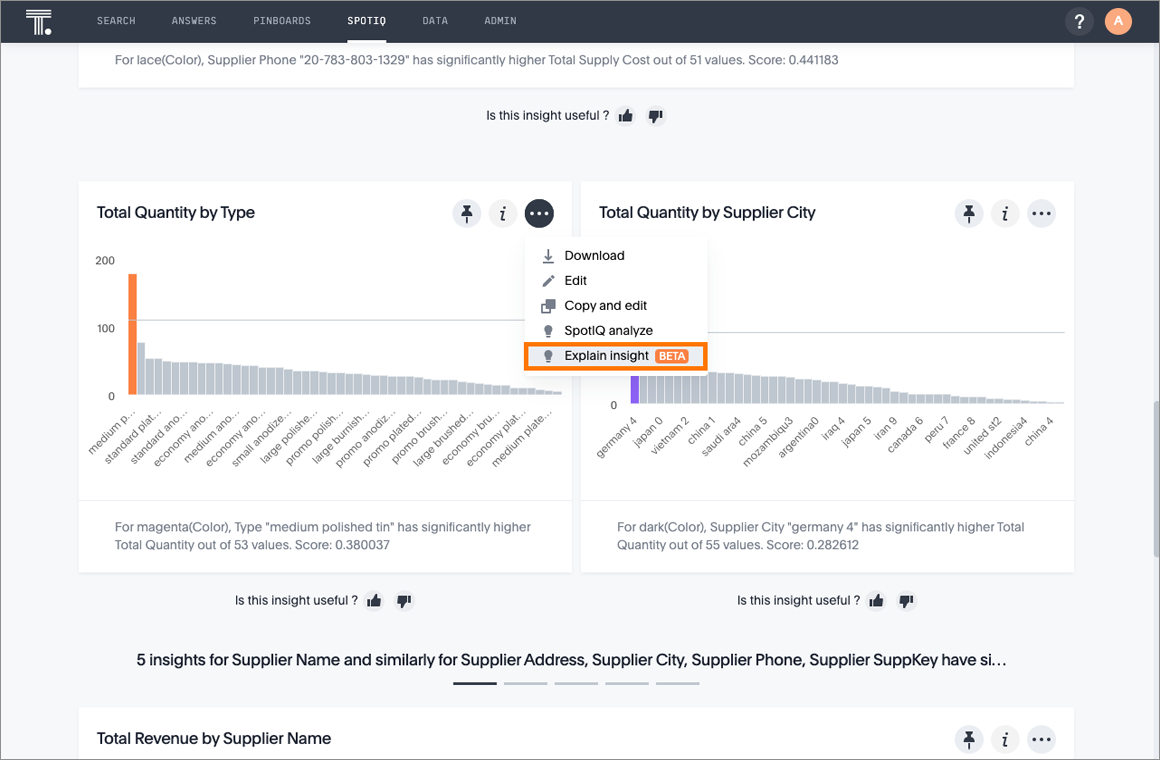
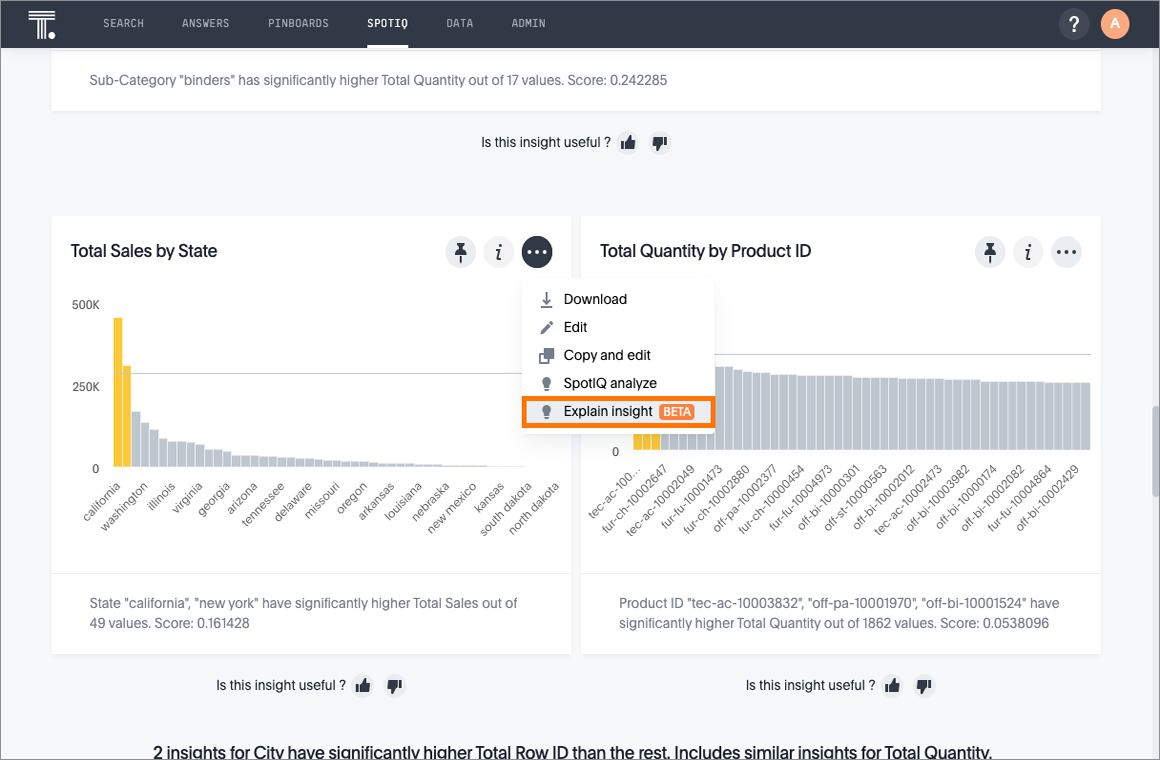
Finished Explain Insight content

diff --git a/_spotiq/customization.md b/_spotiq/customization.md
@@ -152,3 +152,23 @@ Your SpotIQ analysis may not provide you as many insights as you think it should
 When SpotIQ finds insights with anomaly points, you have the option to run the Explain Insight command to have SpotIQ do further analysis on the anomaly points.
 
 ![]({{ site.baseurl }}/images/spotiq-explain-insight-1.png)
+
+To explain an insight, do the following:
+
+1. Click the ellipses icon ![more options menu icon]({{ site.baseurl }}/images/icon-ellipses.png){: .inline} for the insight you want to explain and select **Explain insight**.
+
+2. In the SpotIQ window, click **Analyze**.
+
+   Analysis begins.
+
+3. Click **SpotIQ** in the top navigation bar.
+
+4. Click the **Analyses** tab.
+
+5. Find the name of the insight that you analyzed and click **View Results**.
+
+   The results of your insight analysis explaining your anomaly points appear.
+
+![]({{ site.baseurl }}/images/spotiq-explain-insight-2.png)
+
+{% include note.html content="**Explain insight** does not work with Trend Analysis or Cross Correlation Analysis." %}
